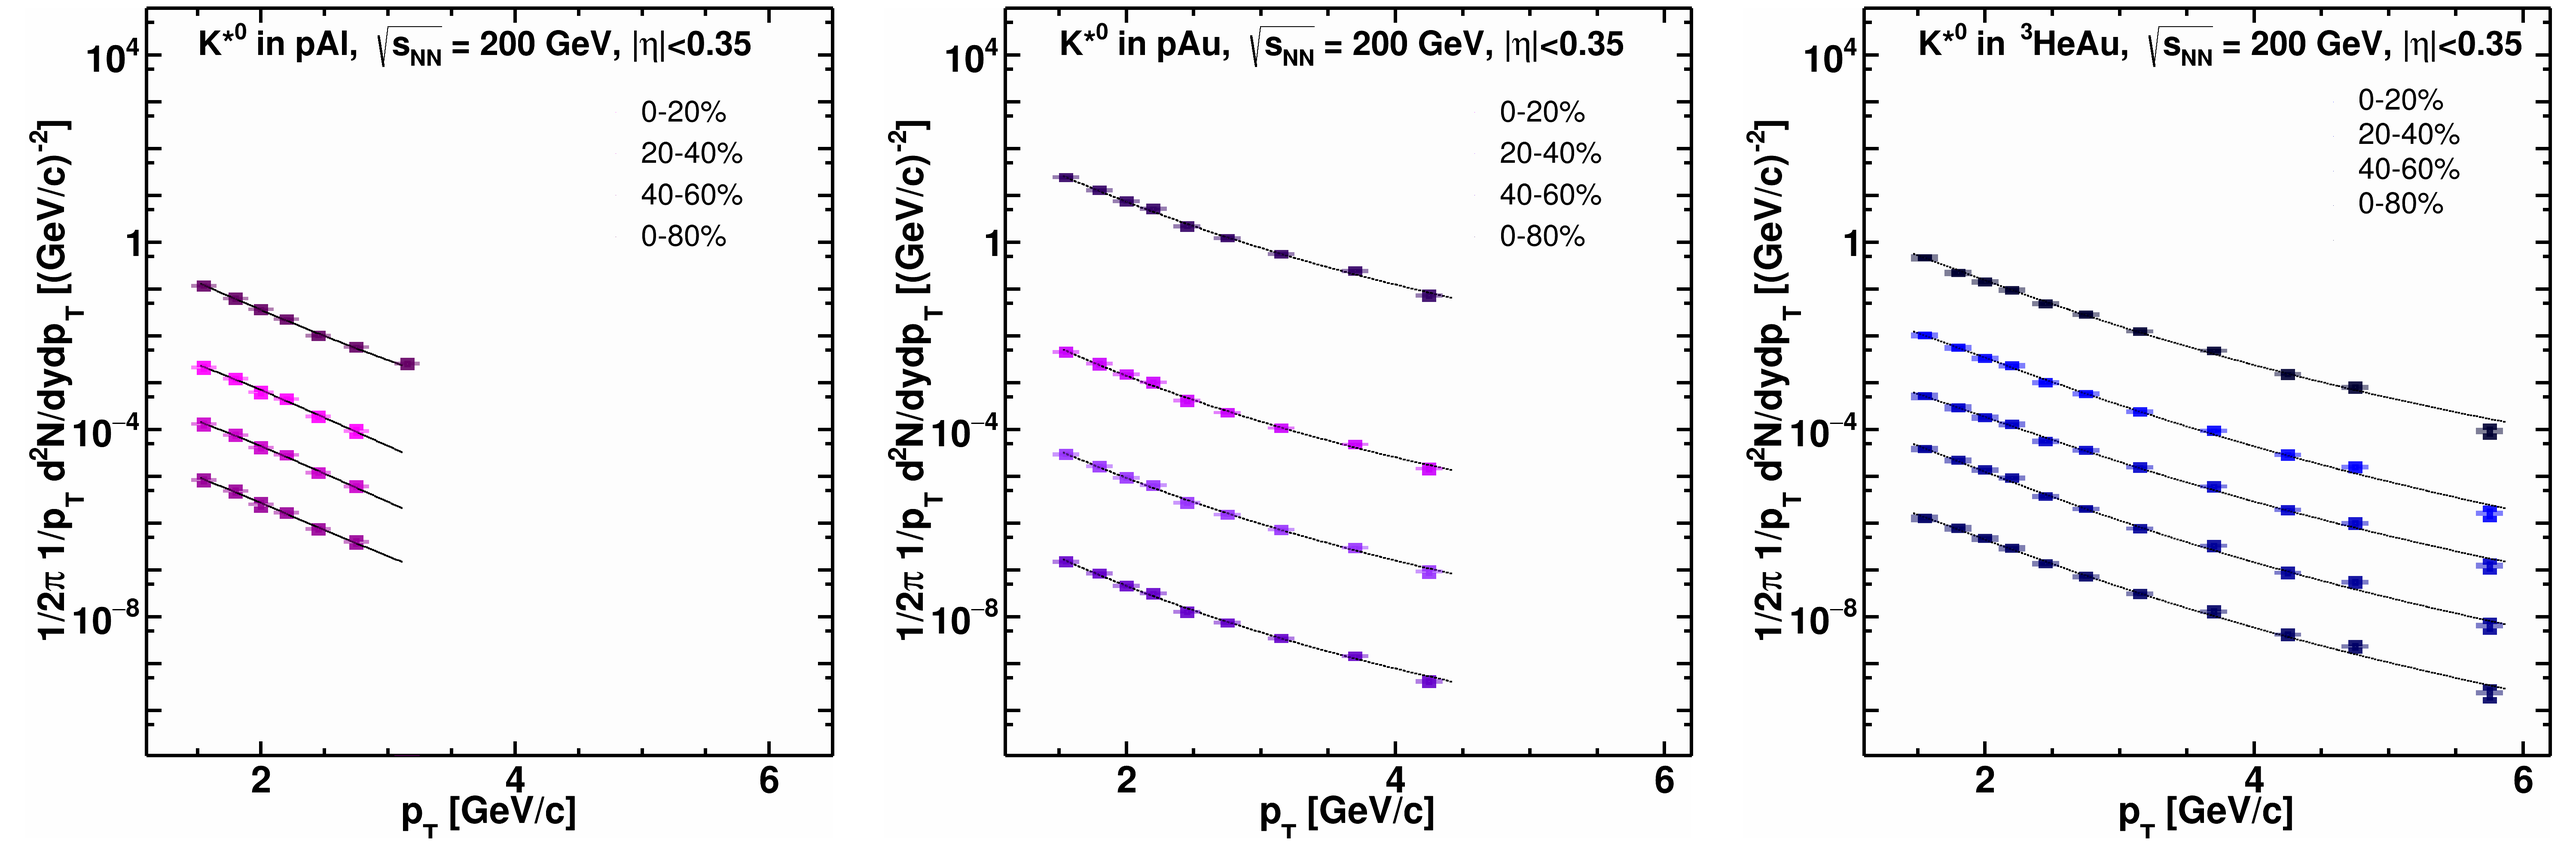
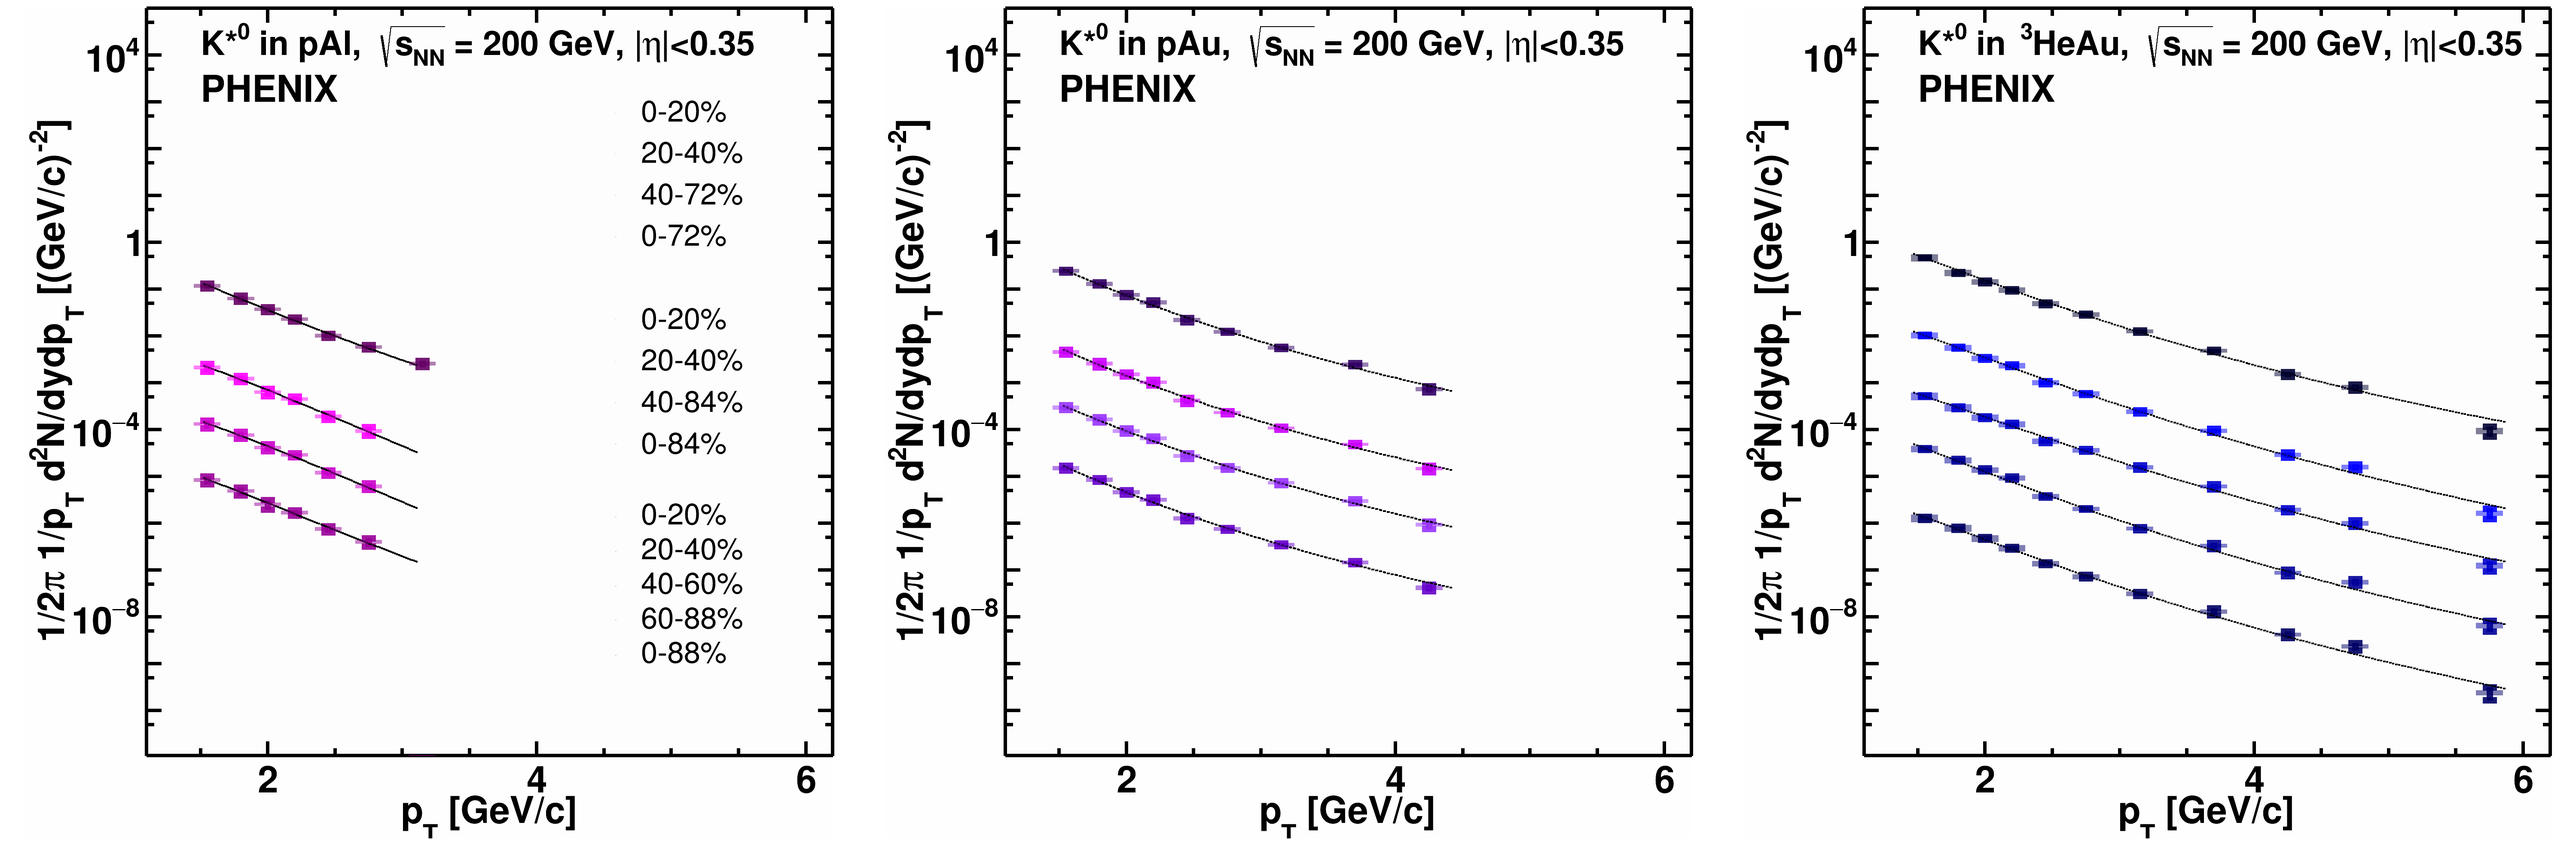
add plots and new parametres

diff --git a/plotter.cpp b/plotter.cpp
@@ -175,42 +175,6 @@ void plotter_small() {
 }
 
 
-/*void plotter_int_rab() {
-
-  auto kstar_cuau = new Particles("rab_kstar_cuau", 5, n_kstar_cuau, kRed, 21);
-  kstar_cuau->get_inte_rab();
-  kstar_cuau->int_format_graph(7, 10, 0.9);
-  kstar_cuau->int_format_graph_sys(5, 10, 0.9);
-
-  auto kstar_uu = new Particles("rab_kstar_uu", 4, n_kstar_uu, kGreen+2, 22);
-  kstar_uu->get_int_rab();
-  kstar_uu->int_format_graph(7, 10, 0.9);
-  kstar_uu->int_format_graph_sys(5, 10, 0.9);
-
-  auto kstar_cucu = new Particles("rab_kstar_cucu", 5, n_kstar_cucu, kBlue, 23);
-  kstar_cucu->get_int_rab();
-  kstar_cucu->int_format_graph(7, 10, 0.9);
-  kstar_cucu->int_format_graph_sys(5, 10, 0.9);
-
-  auto c2 = new TCanvas("c2", "c2", 30, 30, 4000, 4000);
-  Format_Canvas(c2, 1, 1, 0);
-
-  double par[4] = {0.1, 0.0, 0.1, 0.0};
-  SetMarginPad(par);
-  double param_pad[] = {0.1, 349, 0.2, 2.1, 0.9, 0.9, 0.05, 0.05};
-  TString pad_title_x = "N_{part}";
-  TString pad_title_y = "#LTR_{AB}#GT";
-
-  Format_Pad(param_pad, pad_title_x, pad_title_y);
-
-  kstar_cuau->int_draw_all();
-  kstar_uu->int_draw_all();
-  kstar_cucu->int_draw_all();
-
-  c2->Print("int_rab.png");
-
-
-}*/
 
 struct coeff_scale_sp {
     double coeff[5];
@@ -222,23 +186,23 @@ void plotter_spectra_for_ppg_heavy() {
   TString sp_pad_title_x = "p_{T} [GeV/c]";
   TString sp_pad_title_y = "1/2#pi 1/p_{T} d^{2}N/dydp_{T} [(GeV/c)^{-2}]";
   TLatex *phenix[2];
-  phenix[0] = new TLatex(1.9, 100, "PHENIX");
-  phenix[1] = new TLatex(1.5, 100, "PHENIX");
+  phenix[0] = new TLatex(1.5, 1e3, "PHENIX");
+  phenix[1] = new TLatex(1.5, 1e3, "PHENIX");
   TLatex *name_fig[2];
   TLegend *leg[2];
 
 
   // special for Cu+Au spectra declaration
-  auto kstar_cuau_sp = new Particles("rab_kstar_cuau", 5, n_kstar_cuau, kRed, 21);
+  auto kstar_cuau_sp = new Particles("rab_kstar_cuau", 5, n_kstar_cuau, kMagenta, 21);
   coeff_scale_sp coeff_for_cuau{{1,        1e-1,      1e-2,      1e-3,      1e2},
                                 {"10^{0}", "10^{-1}", "10^{-2}", "10^{-3}", "10^{2}"}};
 
   kstar_cuau_sp->sp_scale(coeff_for_cuau.coeff);
-  kstar_cuau_sp->sp_format_graph(5, 15, 0.9);
+  kstar_cuau_sp->sp_format_graph(4, 15, 0.9);
   kstar_cuau_sp->sp_format_graph_sys(0.1, 5, 0.5);
-  name_fig[0] = new TLatex(1.9, 1e3, "K*^{0} in CuAu, #sqrt{s_{NN}} = 200 GeV");
+  name_fig[0] = new TLatex(1.5, 8e3, "K*^{0} in CuAu, #sqrt{s_{NN}} = 200 GeV, |#eta|<0.35");
   Format_Latex(name_fig[0], 62, 0.045, 2);
-  leg[0] = new TLegend(0.65, 0.2, 0.95, 0.6);
+  leg[0] = new TLegend(0.67, 0.2, 0.97, 0.6);
   Format_Legend(leg[0], 62, 0.04, 0, 0, "");
   TString name_cen_cuau[] = {"  0-20%", "20-40%", "40-60%", "60-80%", "  0-93%"};
   double par_sp_cuau[] = {0.15, 0.0, 0.1, 0.};
@@ -247,16 +211,16 @@ void plotter_spectra_for_ppg_heavy() {
   Color_t color_cuau[] = {kAzure, kAzure + 1, kAzure + 2, kAzure + 3, kBlack};
 
   // special for U+U spectra declaration
-  auto kstar_uu = new Particles("rab_kstar_uu", 4, n_kstar_uu, kBlue, 22);
+  auto kstar_uu = new Particles("rab_kstar_uu", 4, n_kstar_uu, kBlue, 33);
   coeff_scale_sp coeff_for_uu{{1e-3,      1e-4,      1e-5,      1e-1},
                               {"10^{-3}", "10^{-4}", "10^{-5}", "10^{-1}"}};
   kstar_uu->sp_scale(coeff_for_uu.coeff);
-  kstar_uu->sp_format_graph(5, 15, 0.9);
+  kstar_uu->sp_format_graph(6, 15, 0.9);
   kstar_uu->sp_format_graph_sys(0.08, 5, 0.5);
 
-  name_fig[1] = new TLatex(1.5, 1e3, "K*^{0} in UU, #sqrt{s_{NN}} = 193 GeV, |#eta|<0.35");
+  name_fig[1] = new TLatex(1.5, 8e3, "K*^{0} in UU, #sqrt{s_{NN}} = 193 GeV, |#eta|<0.35");
   Format_Latex(name_fig[1], 62, 0.045, 2);
-  leg[1] = new TLegend(0.65, 0.6, 0.95, 0.9);
+  leg[1] = new TLegend(0.67, 0.6, 0.97, 0.9);
   Format_Legend(leg[1], 62, 0.04, 0, 0, "");
   TString name_cen_uu[] = {"  0-20%", "20-40%", "40-60%", "  0-80%"};
   double par_sp_uu[] = {0.15, 0., 0.1, 0.0};
@@ -274,7 +238,12 @@ void plotter_spectra_for_ppg_heavy() {
     kstar_cuau_sp->sp_draw(j);
     kstar_cuau_sp->sp_fit(koeff_levy_cuau, j);
     kstar_cuau_sp->sp_draw_sys(j);
-    leg[0]->AddEntry(kstar_cuau_sp->graph_for_legend(5, j), name_cen_cuau[j] + "x" + coeff_for_cuau.name_coeff[j], "p");
+  }
+
+  leg[0]->AddEntry(kstar_cuau_sp->graph_for_legend(4, 4), name_cen_cuau[4] + "x" + coeff_for_cuau.name_coeff[4], "p");
+
+  for (int j = 0; j <4; j++) {
+    leg[0]->AddEntry(kstar_cuau_sp->graph_for_legend(4, j), name_cen_cuau[j] + "x" + coeff_for_cuau.name_coeff[j], "p");
   }
 
   phenix[0]->Draw();
@@ -288,10 +257,14 @@ void plotter_spectra_for_ppg_heavy() {
     kstar_uu->sp_draw(j);
     kstar_uu->sp_fit(koeff_levy_uu, j);
     kstar_uu->sp_draw_sys(j);
-    leg[1]->AddEntry(kstar_uu->graph_for_legend(5, j), name_cen_uu[j] + "x" + coeff_for_uu.name_coeff[j], "p");
+    if (j == 3){kstar_uu->sp_fit(koeff_levy_uu_2, j);}
   }
 
-  for (int j = 3; j < 4; ++j) {kstar_uu->sp_fit(koeff_levy_uu_2, j);}
+  leg[1]->AddEntry(kstar_uu->graph_for_legend(6, 3), name_cen_uu[3] + "x" + coeff_for_uu.name_coeff[3], "p");
+
+  for (int j = 0; j <3; j++) {
+    leg[1]->AddEntry(kstar_uu->graph_for_legend(6, j), name_cen_uu[j] + "x" + coeff_for_uu.name_coeff[j], "p");
+  }
 
   leg[0]->Draw();
   leg[1]->Draw();
@@ -308,11 +281,11 @@ void plotter_spectra_for_ppg_heavy() {
 
   // special for Cu+Au ratio
   kstar_cuau_sp->get_levy_data(10, 15, 0.9);
-  double param_pad_ratio_cuau[] = {1.1, 7.1, 0.01, 1.99, 0.95, 1.4, 0.05, 0.05, 0, 504, 504};
+  double param_pad_ratio_cuau[] = {1.1, 7.1, 0.01, 1.99, 0.95, 1.4, 0.05, 0.05, 0, 504, 504, 1};
 
   // special for U+U ratio
   kstar_uu->get_levy_data(10, 15, 0.9);
-  double param_pad_ratio_uu[] = {1.1, 4.2, 0.01, 1.99, 0.95, 1.4, 0.05, 0.05, 0, 504, 504};
+  double param_pad_ratio_uu[] = {1.1, 4.2, 0.01, 1.99, 0.95, 1.4, 0.05, 0.05, 0, 504, 504, 1};
 
   auto c2 = new TCanvas("c2", "c2", 4000, 2000);
   Format_Canvas(c2, 2, 1, 1);
@@ -344,7 +317,11 @@ void plotter_spectra_for_ppg_small() {
   Particles *kstar_small[3];
   TString sp_pad_title_x = "p_{T} [GeV/c]";
   TString sp_pad_title_y = "1/2#pi 1/p_{T} d^{2}N/dydp_{T} [(GeV/c)^{-2}]";
-  auto phenix = new TLatex(1.5, 100, "PHENIX");
+  TLatex *phenix[3];
+  phenix[0] = new TLatex(1.5, 1e3, "PHENIX");
+  phenix[1] = new TLatex(1.5, 1e3, "PHENIX");
+  phenix[2] = new TLatex(1.5, 1e3, "PHENIX");
+  //auto phenix = new TLatex(1.5, 100, "PHENIX");
   TLatex *name_fig[3];
   TLegend *leg[3];
   coeff_scale_sp coeff_scale_small[3];
@@ -359,9 +336,9 @@ void plotter_spectra_for_ppg_small() {
           {1.1, 6.2, 1.1e-11, 1e5 - 1, 0.95, 1.4, 0.05, 0.05, 1, 504, 504, 1}
   };
   TString name_cen_small[3][5] = {
-          {"0-20%", "20-40%", "40-60%", "0-80%"},
-          {"0-20%", "20-40%", "40-60%", "0-80%"},
-          {"0-20%", "20-40%", "40-60%", "0-80%"}
+          {"0-20%", "20-40%", "40-72%", "0-72%"},
+          {"0-20%", "20-40%", "40-84%", "0-84%"},
+          {"0-20%", "20-40%", "40-60%", "60-88%", "0-88%"}
   };
 
 
@@ -379,8 +356,9 @@ void plotter_spectra_for_ppg_small() {
   Format_Legend(leg[0], 42, 0.04, 0, 0, "");
 
 
+  // для pAu вставлены спектры уже домноженные на коэффициенты десятки
   kstar_small[1] = new Particles("rab_kstar_pau", 4, n_kstar_pau, kViolet);
-  coeff_scale_small[1] = {{1, 1e-1, 1e-2, 1e2},
+  coeff_scale_small[1] = {{1, 1e0, 1e0, 1e0},
                           {}};
   kstar_small[1]->sp_scale(coeff_scale_small[1].coeff);
   kstar_small[1]->sp_format_graph(5, 15, 0.9);
@@ -389,7 +367,7 @@ void plotter_spectra_for_ppg_small() {
   name_fig[1] = new TLatex(1.5, 1e4, "K*^{0} in pAu, #sqrt{s_{NN}} = 200 GeV, |#eta|<0.35");
   Format_Latex(name_fig[1], 62, 0.045, 2);
 
-  leg[1] = new TLegend(0.7, 0.7, 0.95, 0.95);
+  leg[1] = new TLegend(0.7, 0.45, 0.95, 0.7);
   Format_Legend(leg[1], 42, 0.04, 0, 0, "");
 
 
@@ -403,7 +381,7 @@ void plotter_spectra_for_ppg_small() {
   name_fig[2] = new TLatex(1.5, 1e4, "K*^{0} in ^{3}HeAu, #sqrt{s_{NN}} = 200 GeV, |#eta|<0.35");
   Format_Latex(name_fig[2], 62, 0.045, 2);
 
-  leg[2] = new TLegend(0.7, 0.7, 0.95, 0.95);
+  leg[2] = new TLegend(0.7, 0.2, 0.95, 0.45);
   Format_Legend(leg[2], 42, 0.04, 0, 0, "");
 
 
@@ -423,11 +401,23 @@ void plotter_spectra_for_ppg_small() {
     kstar_small[0]->sp_draw(i);
     kstar_small[0]->sp_fit(koeff_levy_small[0], i);
     kstar_small[0]->sp_draw_sys(i);
-    leg[0]->AddEntry(kstar_small[0]->graph_for_legend(5, i),
-                     name_cen_small[0][i] /*+ coeff_scale_small[0].name_coeff[i]*/, "p");
+    /* leg[0]->AddEntry(kstar_small[0]->graph_for_legend(5, i), name_cen_small[0][i] + 8coeff_scale_small[0].name_coeff[i]*, "p");
+    leg[1]->AddEntry(kstar_small[1]->graph_for_legend(5, i), name_cen_small[1][i] + coeff_scale_small[1].name_coeff[i],"p");
+    leg[2]->AddEntry(kstar_small[2]->graph_for_legend(5, i), name_cen_small[2][i] + coeff_scale_small[2].name_coeff[i],"p");
+    */
   }
+
+
+
+  /*for (int i = 4; i < 5; ++i) {
+    leg[2]->AddEntry(kstar_small[2]->graph_for_legend(5, i), name_cen_small[2][i] + coeff_scale_small[2].name_coeff[i],"p");
+  }
+   */
+  phenix[0]->Draw();
   name_fig[0]->Draw();
   leg[0]->Draw();
+  leg[1]->Draw();
+  leg[2]->Draw();
 
 
   c1->cd(2);
@@ -437,11 +427,9 @@ void plotter_spectra_for_ppg_small() {
     kstar_small[1]->sp_draw(i);
     kstar_small[1]->sp_fit(koeff_levy_small[1], i);
     kstar_small[1]->sp_draw_sys(i);
-    leg[1]->AddEntry(kstar_small[1]->graph_for_legend(5, i), name_cen_small[1][i] + coeff_scale_small[1].name_coeff[i],
-                     "p");
   }
+  phenix[1]->Draw();
   name_fig[1]->Draw();
-  leg[1]->Draw();
 
 
   c1->cd(3);
@@ -451,11 +439,9 @@ void plotter_spectra_for_ppg_small() {
     kstar_small[2]->sp_draw(i);
     kstar_small[2]->sp_fit(koeff_levy_small[2], i);
     kstar_small[2]->sp_draw_sys(i);
-    leg[2]->AddEntry(kstar_small[2]->graph_for_legend(5, i), name_cen_small[2][i] + coeff_scale_small[2].name_coeff[i],
-                     "p");
   }
+  phenix[2]->Draw();
   name_fig[2]->Draw();
-  leg[2]->Draw();
 
   c1->Print("ppg_plots/spectra_small.png");
 
